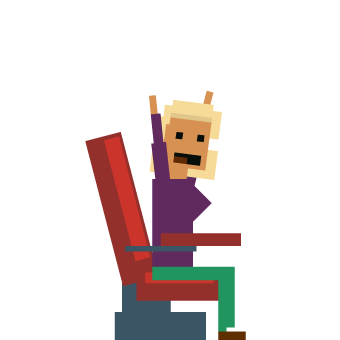
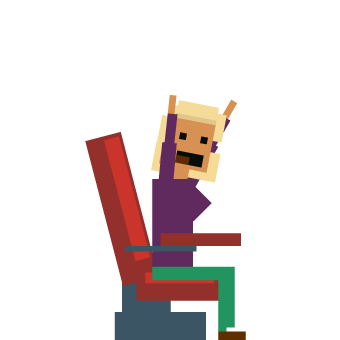
koko

Changed region(s): [[0.4412, 0.2647, 0.7059, 0.5588]]

diff --git a/Classes/passenger/Passenger.cpp b/Classes/passenger/Passenger.cpp
@@ -32,8 +32,10 @@ bool Passenger::init()
 	toilet = nullptr;
 	trolley = nullptr;
 	nextActionTime = 0;
+	angryFlag = false;
 	seatDown();
 	movingSpeed = MOVING_SPEED;
+	setAngry(true);
 
 	return true;
 }
@@ -101,6 +103,8 @@ void Passenger::seatDown()
 
 void Passenger::updateSeat(float dt)
 {
+	updateSittingAnim();
+
 	if (getUpdateCounter() < nextActionTime)
 		return;
 
@@ -117,6 +121,17 @@ void Passenger::updateMovingAnim()
 {
 	setPicture(pictureDir + "go", getUpdateCounter() % 14);
 	//this->setFlippedX(getDirection() == DIRECTION_RIGHT);
+}
+
+void Passenger::updateSittingAnim()
+{
+	if (!angryFlag)
+	{
+		setPicture(pictureDir + "sitting/0000.png");
+		return;
+	}
+
+	setPicture(pictureDir + "angry_seating", (getUpdateCounter() / 5) % 15);
 }
 
 void Passenger::updateMovingToToilet(float dt)
@@ -197,6 +212,11 @@ void Passenger::updateToiletExiting(float dt)
 	toilet->closeDoor();
 	toilet->free();
 	moveToSeat();
+}
+
+void Passenger::setAngry(bool value)
+{
+	angryFlag = value;
 }
 
 void Passenger::checkTrolleyCollision()

diff --git a/Classes/passenger/Passenger.h b/Classes/passenger/Passenger.h
@@ -35,6 +35,7 @@ private:
 	States state;
 	Toilet* toilet;
 	Trolley* trolley;
+	bool angryFlag;
 
 	int nextActionTime;
 
@@ -48,9 +49,11 @@ private:
 	void moveToToilet();
 	void moveToSeat();
 	void seatDown();
+	void setAngry(bool value);
 
 	void updateSeat(float dt);
 	void updateMovingAnim();
+	void updateSittingAnim();
 	void updateMovingToToilet(float dt);
 	void updateMovingToSeat(float dt);
 	void updateEnterToToilet(float dt);

diff --git a/Classes/passenger/Pilot.h b/Classes/passenger/Pilot.h
@@ -34,7 +34,7 @@ private:
     
     bool _isAnimation;
     
-    int _frameCounter;
+    int _frameCounter = 0;
     
     int _frequencyAnimation;
     
